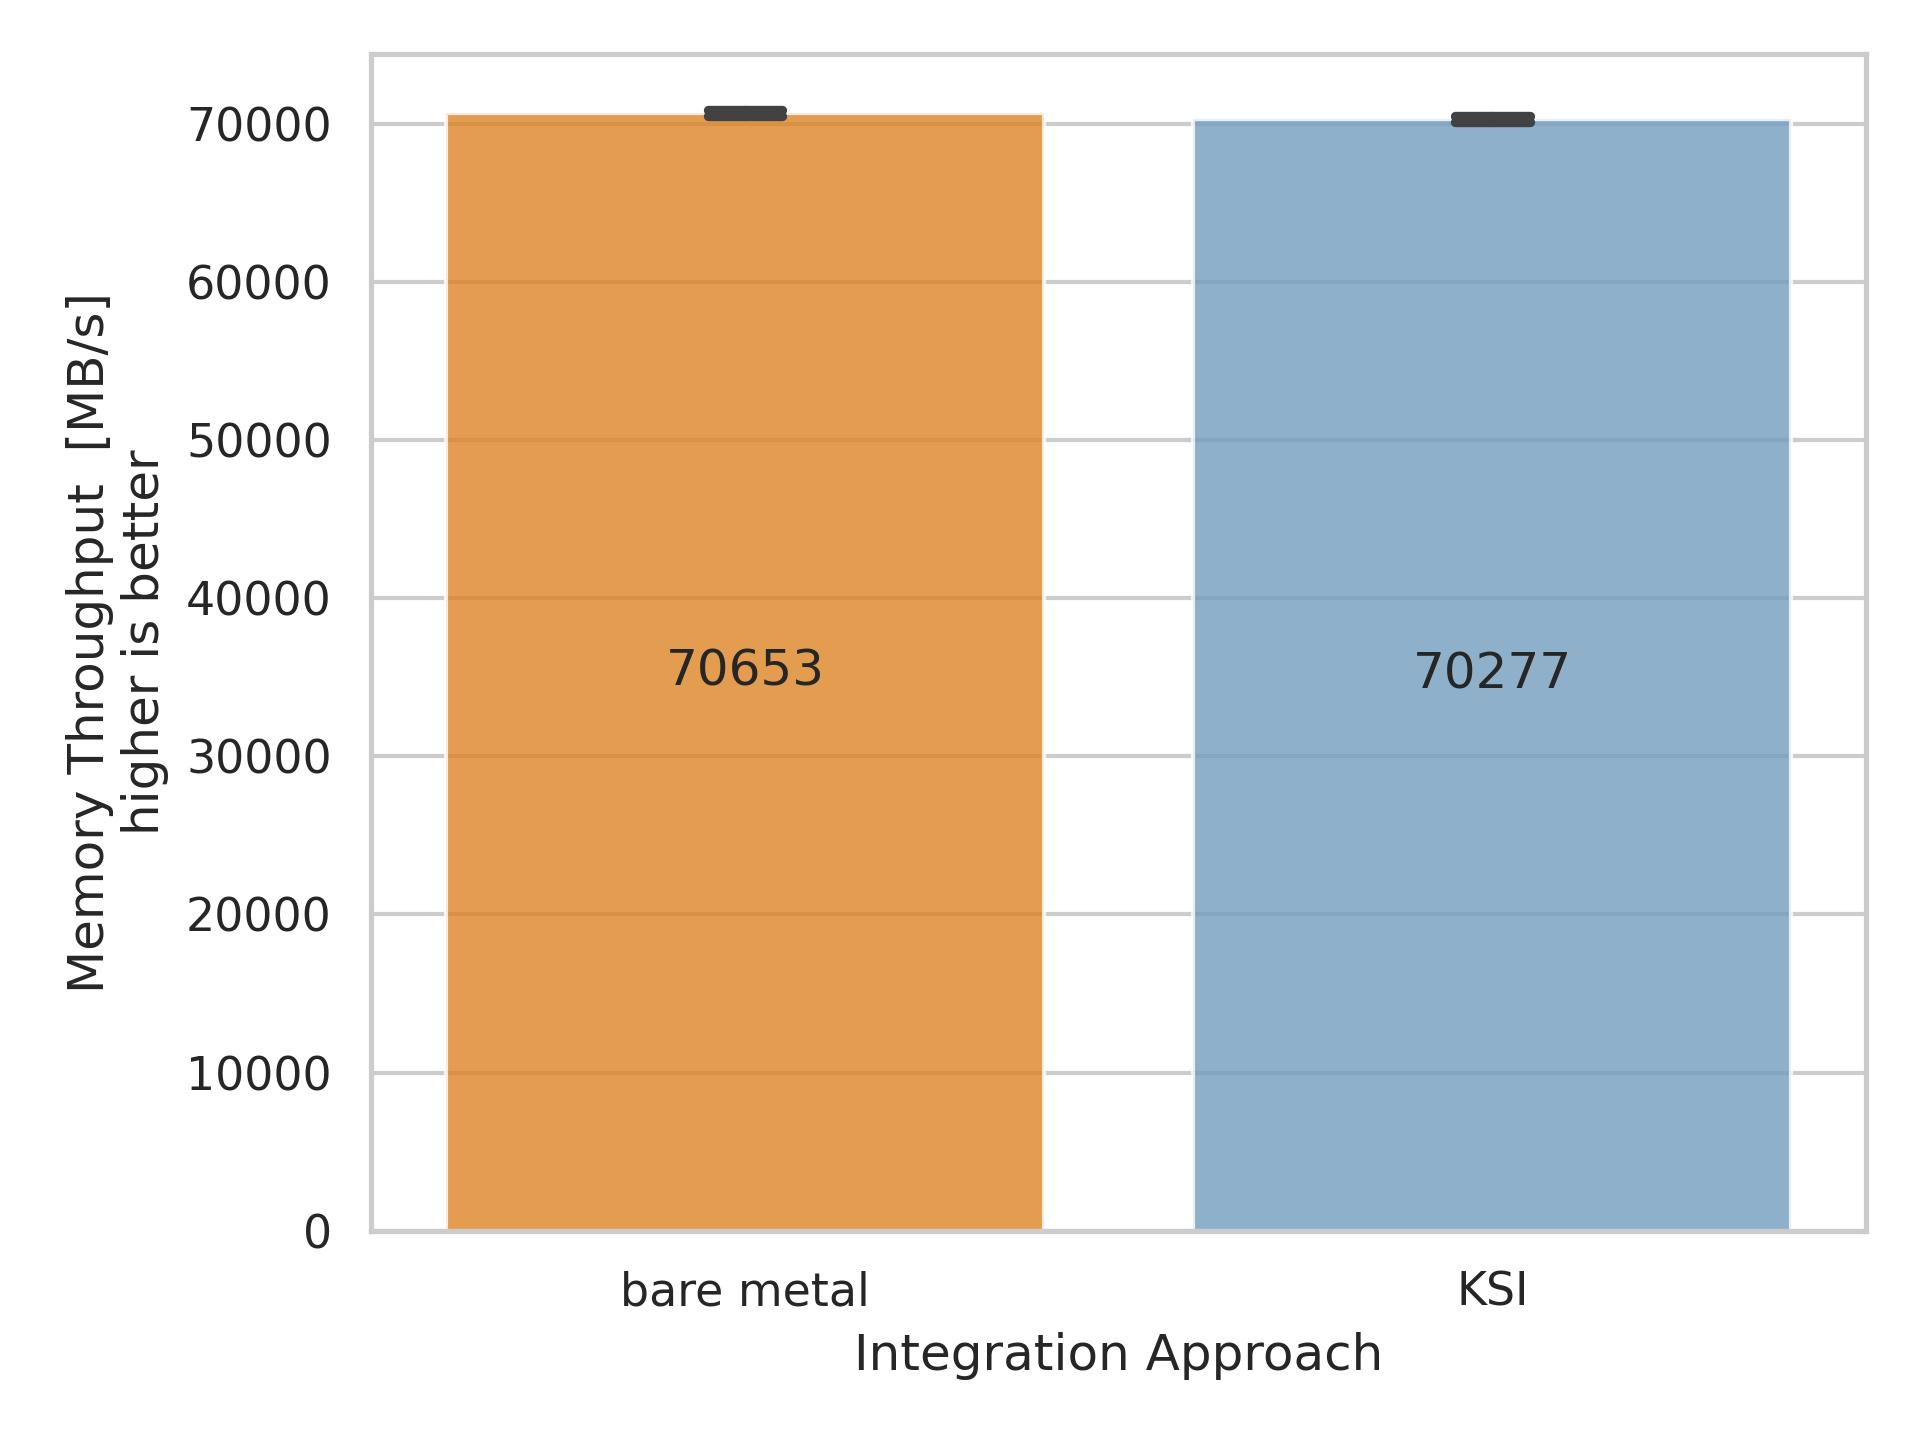
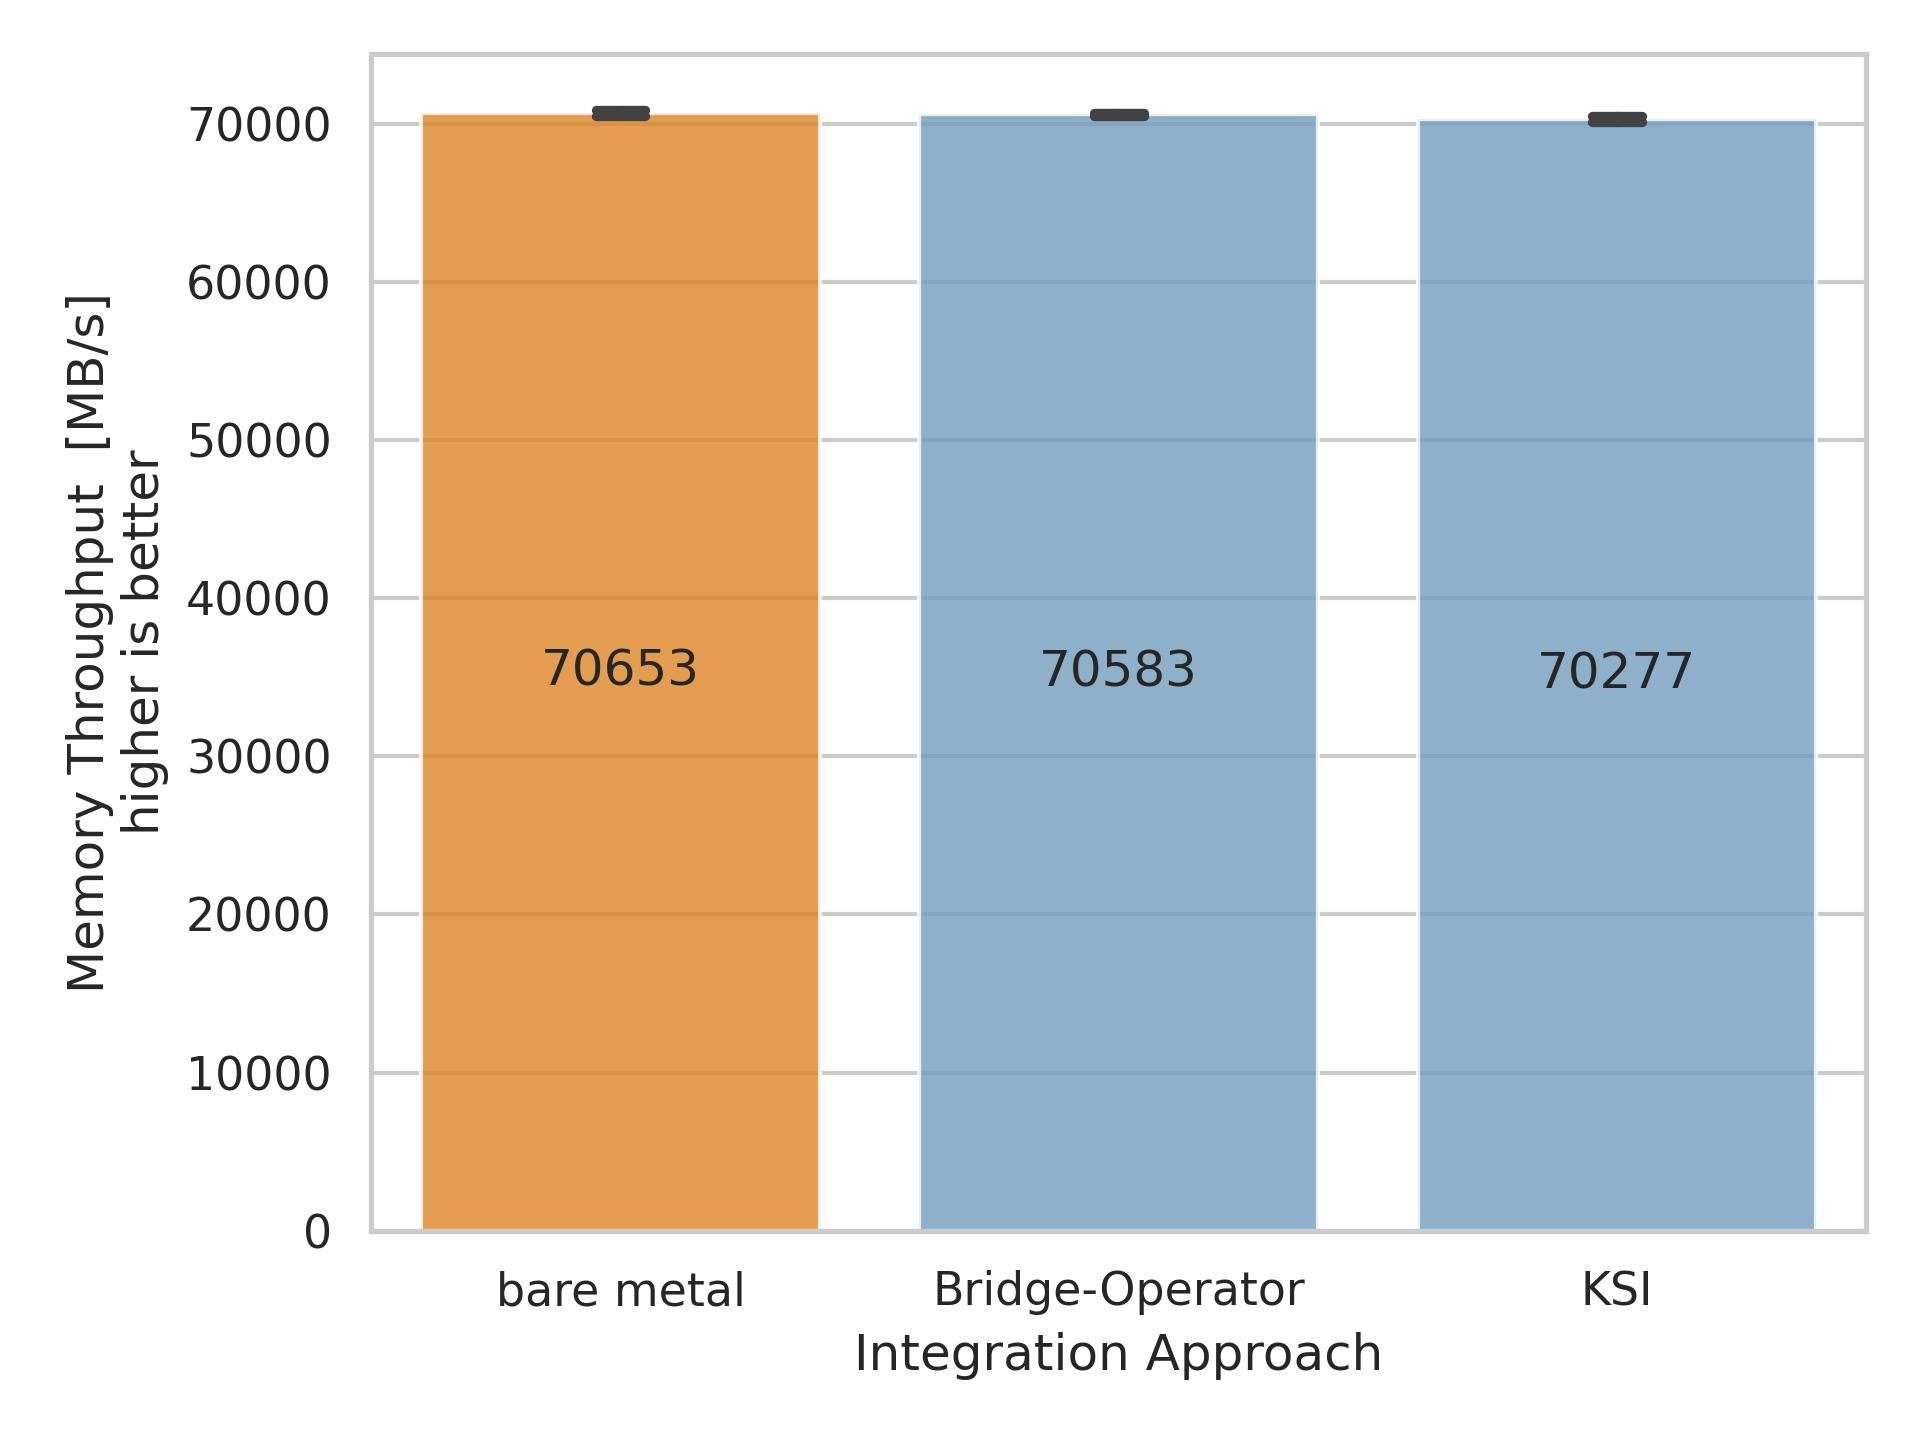
Add evaluation for bridge operator

diff --git a/Readme.md b/Readme.md
@@ -117,22 +117,24 @@ netserver -p 16604
 
 ## Notes
 - For testing we disabled writing caching as described here: https://stackoverflow.com/questions/20215516/disabling-disk-cache-in-linux/20215603#20215603
-- Nevertheless, Linux seems to heavily utilizes file caching on read operations. To the best of our knowledge, this can not be disabled.
-
+- Nevertheless, Linux seems to heavily utilizes file caching on read operations. To the best of our knowledge, this can not be disabled. 
+A solution is to use more file IO size for read or write operations, than memory is available
+- To benchmark the project bridge-operator, a Kubernetes cluster is needed. Theoretically, a Kind cluster is sufficient. 
+We used a single node Kubernetes cluster deployed in a cloud VM. In order to obtain accurate results in startup-time benchmark, the time on the Slurm node and the VM have to be correct.
 
 ## Completed Benchmarks on Projects
 |                               | KSI                                                     | HPK | Bridge-Operator | Slurm                                                   |
 |-------------------------------|---------------------------------------------------------|-----|-----------------|---------------------------------------------------------|
-| Sysbench CPU                  | ✅                                                       |     |                 | ✅                                                       |
-| Stream Memory                 | ✅                                                       |     |                 | ✅                                                       |
-| Fio Disk seq                  | ✅                                                       |     |                 | ✅                                                       |
-| Fio Disk rnd                  | ✅                                                       |     |                 | ✅                                                       |
+| Sysbench CPU                  | ✅                                                       |     | ✅               | ✅                                                       |
+| Stream Memory                 | ✅                                                       |     | ✅               | ✅                                                       |
+| Fio Disk seq                  | ✅                                                       |     | ✅               | ✅                                                       |
+| Fio Disk rnd                  | ✅                                                       |     | ✅               | ✅                                                       |
 | ~~Sysbench FileIO rnd~~       | 💀 time-based => can not read / write desired file size |     |                 | 💀 time-based => can not read / write desired file size |
 | ~~Sysbench FileIO seq~~       | 💀 time-based => can not read / write desired file size |     |                 | 💀 time-based => can not read / write desired file size |
 | ~~Bonnie++ FileIO seq~~       | 💀 bug: no seq read available                           |     |                 |                                                         |
-| Iperf3 Network Throughput     | ✅                                                       |     |                 | ✅                                                       |
-| Netperf Network Latency (TCP) | ✅                                                       |     |                 | ✅                                                       |
-| Workload start up time        | ✅                                                       |     |                 | ✅                                                       |
+| Iperf3 Network Throughput     | ✅                                                       |     | ✅               | ✅                                                       |
+| Netperf Network Latency (TCP) | ✅                                                       |     | ✅               | ✅                                                       |
+| Workload start up time        | ✅                                                       |     | ✅               | ✅                                                       |
 
 ✅ = successfully completed
 💀 = error occurred / completion not possible
